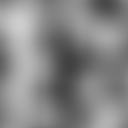
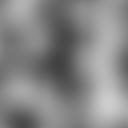
level changes

diff --git a/renderwindow.cpp b/renderwindow.cpp
@@ -130,13 +130,6 @@ RenderWindow::~RenderWindow()
 // Sets up the general OpenGL stuff and the buffers needed to render a triangle
 void RenderWindow::init()
 {
-    QLibrary myLib("../3Dprog22/assimp-vc143-mtd.dll");
-    if (myLib.load()) {
-        std::cout << "DLL loaded successfully, do something with it \n";
-    } else {
-        std::cout << "DLL failed to load, handle the error";
-    }
-
     //Get the instance of the utility Output logger
     //Have to do this, else program will crash (or you have to put in nullptr tests...)
     mLogger = Logger::getInstance();
@@ -200,7 +193,7 @@ void RenderWindow::init()
     setupTextureShader();
     setupPhongShader();
 
-    heightMap = new HeightMap((char*)("../3Dprog22/HeightMaps/hMap2.png"));
+    heightMap = new HeightMap((char*)("../3Dprog22/HeightMaps/hMap3.png"));
     heightMap->LoadHeightMap();
 
     brickTexture = new Texture((char*)("../3Dprog22/Textures/brick.png"));
@@ -239,19 +232,19 @@ void RenderWindow::init()
 
     // order: rt, lf, up, dn, bk, ft.
     std::vector<std::string> skyboxFaces;
-        skyboxFaces.push_back("../3Dprog22/Textures/Skybox/dejavu/dejavu_rt.tga");
-        skyboxFaces.push_back("../3Dprog22/Textures/Skybox/dejavu/dejavu_lf.tga");
-        skyboxFaces.push_back("../3Dprog22/Textures/Skybox/dejavu/dejavu_up.tga");
-        skyboxFaces.push_back("../3Dprog22/Textures/Skybox/dejavu/dejavu_dn.tga");
-        skyboxFaces.push_back("../3Dprog22/Textures/Skybox/dejavu/dejavu_bk.tga");
-        skyboxFaces.push_back("../3Dprog22/Textures/Skybox/dejavu/dejavu_ft.tga");
+//    skyboxFaces.push_back("../3Dprog22/Textures/Skybox/dejavu/dejavu_rt.tga");
+//    skyboxFaces.push_back("../3Dprog22/Textures/Skybox/dejavu/dejavu_lf.tga");
+//    skyboxFaces.push_back("../3Dprog22/Textures/Skybox/dejavu/dejavu_up.tga");
+//    skyboxFaces.push_back("../3Dprog22/Textures/Skybox/dejavu/dejavu_dn.tga");
+//    skyboxFaces.push_back("../3Dprog22/Textures/Skybox/dejavu/dejavu_bk.tga");
+//    skyboxFaces.push_back("../3Dprog22/Textures/Skybox/dejavu/dejavu_ft.tga");
 
-//    skyboxFaces.push_back("../3Dprog22/Textures/Skybox/cupertin-lake_rt.tga");
-//    skyboxFaces.push_back("../3Dprog22/Textures/Skybox/cupertin-lake_lf.tga");
-//    skyboxFaces.push_back("../3Dprog22/Textures/Skybox/cupertin-lake_up.tga");
-//    skyboxFaces.push_back("../3Dprog22/Textures/Skybox/cupertin-lake_dn.tga");
-//    skyboxFaces.push_back("../3Dprog22/Textures/Skybox/cupertin-lake_bk.tga");
-//    skyboxFaces.push_back("../3Dprog22/Textures/Skybox/cupertin-lake_ft.tga");
+    skyboxFaces.push_back("../3Dprog22/Textures/Skybox/cupertin-lake_rt.tga");
+    skyboxFaces.push_back("../3Dprog22/Textures/Skybox/cupertin-lake_lf.tga");
+    skyboxFaces.push_back("../3Dprog22/Textures/Skybox/cupertin-lake_up.tga");
+    skyboxFaces.push_back("../3Dprog22/Textures/Skybox/cupertin-lake_dn.tga");
+    skyboxFaces.push_back("../3Dprog22/Textures/Skybox/cupertin-lake_bk.tga");
+    skyboxFaces.push_back("../3Dprog22/Textures/Skybox/cupertin-lake_ft.tga");
 
     skybox = new Skybox(skyboxFaces);
 
@@ -279,7 +272,7 @@ void RenderWindow::init()
     // Additional setup
     moveMiaX(0);
     moveMiaY(-3);
-    mia->mMatrix.translate(0,0,0.1);
+
     house->move(-7.0,0,1);
 
     BOT2->bShouldRender = false;

diff --git a/heightmap.cpp b/heightmap.cpp
@@ -45,7 +45,7 @@ void HeightMap::LoadHeightMap()
 void HeightMap::GenerateTerrain(unsigned char *data)
 {
     // vertex generation
-    float yScale = 32.0f / 256.0f;
+    float yScale = 8.0f / 256.0f;
     float yShift = 16.0f;  // apply a scale+shift to the height data
 
     for(unsigned int i = 0; i < height; i++)
@@ -63,7 +63,7 @@ void HeightMap::GenerateTerrain(unsigned char *data)
 
             // vertex
             d = d * mapScale;
-            mVertices.push_back(Vertex{d.x, d.z, d.y + 2});
+            mVertices.push_back(Vertex{d.x, d.z, d.y + 2.2f});
         }
     }
     // After building up the vertex array, we can release the height map from memory.

diff --git a/interactivecollisionvolume.cpp b/interactivecollisionvolume.cpp
@@ -31,8 +31,8 @@ InteractiveCollisionVolume::InteractiveCollisionVolume(int n) : m_rekursjoner(n)
    oktaederUnitBall();
 
    mWorldPosition = {0.0f,0.0f,0.0f};
-   mMatrix.translate(0.05f, -0.05f, radius);
    mMatrix.scale(radius);
+   mMatrix.translate(0.05f, -0.05f, radius);
 }
 
 //!//! \brief OctahedronBall::~OctahedronBall() virtual destructor

diff --git a/heightmap.h b/heightmap.h
@@ -25,7 +25,7 @@ public:
     void init(GLint matrixUniform) override;
     void draw() override;
 private:
-    float mapScale = 0.4;
+    float mapScale = 0.2;
 
     int width, height, nrChannels;
     char* fileLocation;

diff --git a/plane.cpp b/plane.cpp
@@ -12,7 +12,7 @@ Plane::Plane()
 
    mMatrix.setToIdentity();
 
-   mMatrix.translate(-3.99f, -1.0f, 0.0f);
+   mMatrix.translate(-3.99f, -1.0f, -0.5f);
    mMatrix.rotate(90,0,0,1);
 }
 
